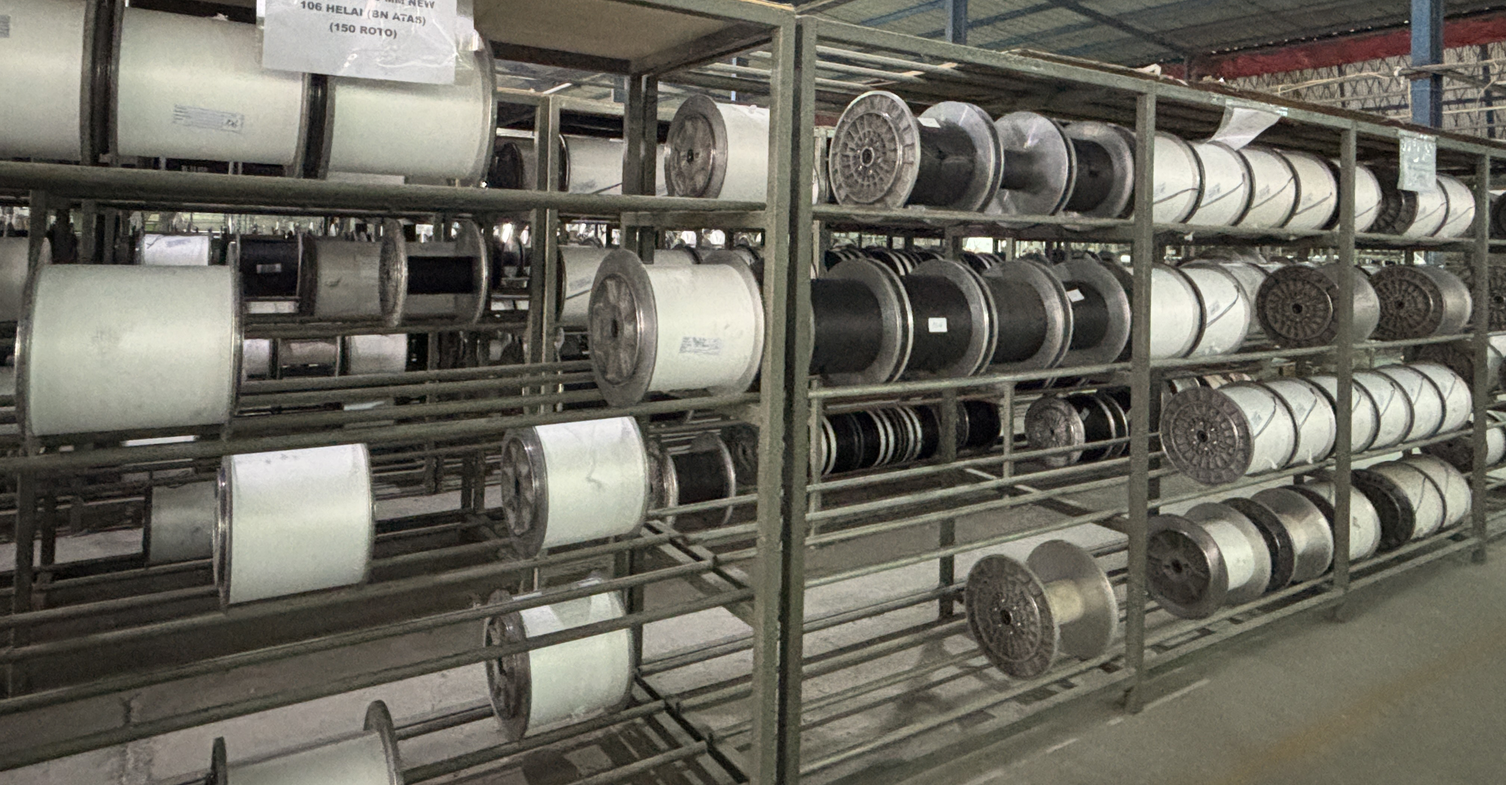
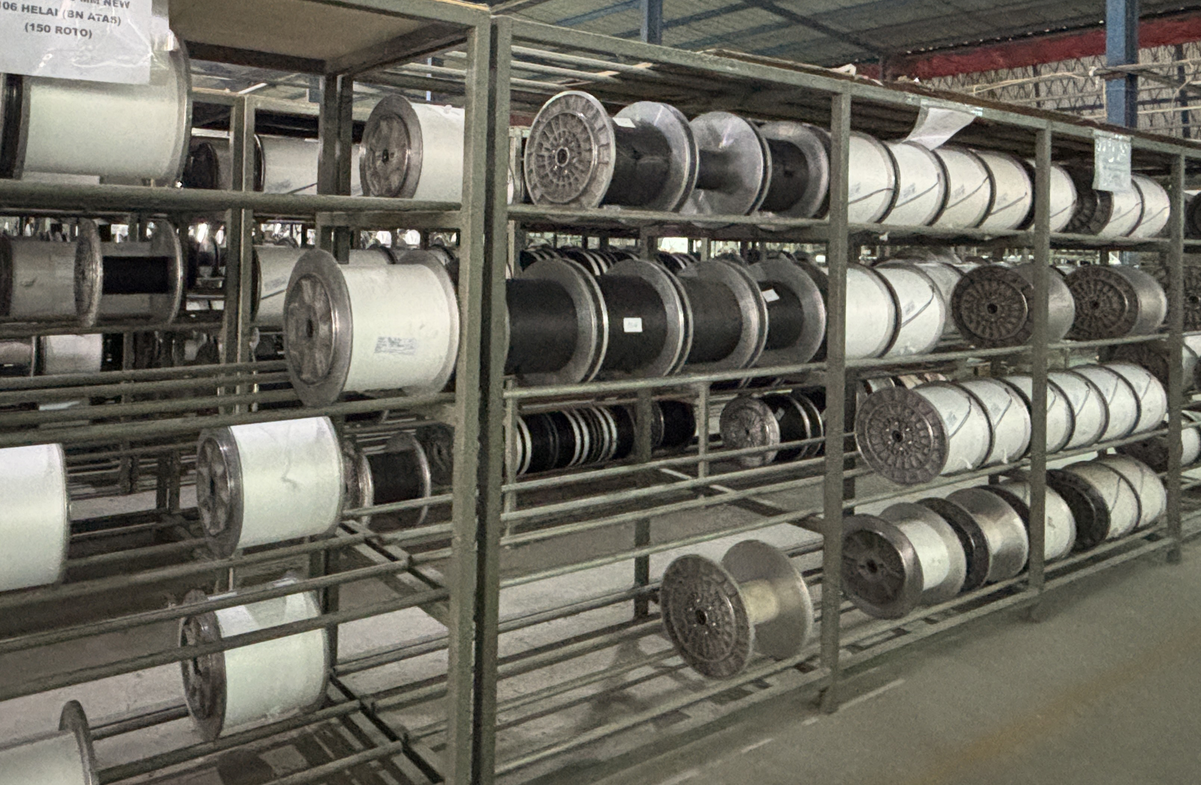
Mengganti JPG

diff --git a/src/components/layouts/Contact.js b/src/components/layouts/Contact.js
@@ -2,53 +2,49 @@ import SectionHeaders from "./SectionHeader";
 
 export default function Contact() {
   return (
-    <section className="text-center my-16  pt-24" id="contact">
-      <SectionHeaders
-        subHeader="Kontak Kami"
-        mainHeader=""
-      />
+    <section className="text-center my-16 pt-24 px-4 sm:px-6 lg:px-8" id="contact">
+      <SectionHeaders subHeader="Kontak Kami" mainHeader="" />
       <div className="mt-16 lg:mt-20">
         <div className="grid grid-cols-1 md:grid-cols-2 gap-8">
           <div className="rounded-lg overflow-hidden">
             <iframe
-              src="https://www.google.com/maps/embed?pb=!1m18!1m12!1m3!1d18870.1540435797!2d106.24859046752003!3d-6.135912600325453!2m3!1f0!2f0!3f0!3m2!1i1024!2i768!4f13.1!3m3!1m2!1s0x2e41f5155a2ee657%3A0x2862c37fbe141189!2sMutiara%20elastis%20new!5e0!3m2!1sen!2sus!4v1732334957662!5m2!1sen!2sus" 
-              width="600"
+              src="https://www.google.com/maps/embed?pb=!1m18!1m12!1m3!1d18870.1540435797!2d106.24859046752003!3d-6.135912600325453!2m3!1f0!2f0!3f0!3m2!1i1024!2i768!4f13.1!3m3!1m2!1s0x2e41f5155a2ee657%3A0x2862c37fbe141189!2sMutiara%20elastis%20new!5e0!3m2!1sen!2sus!4v1732334957662!5m2!1sen!2sus"
+              width="100%"
               height="450"
               style={{ border: 0 }}
               loading="lazy"
-              referrerPolicy="no-referrer-when-downgrade"></iframe>
+              referrerPolicy="no-referrer-when-downgrade"
+            ></iframe>
           </div>
           <div>
             <div className="max-w-full mx-auto rounded-lg overflow-hidden">
-              <div className="px-6 py-4">
-                <h3 className="text-lg font-medium text-gray-900">
-                  Detail Alamat
-                </h3>
+              <div className="px-4 sm:px-6 py-4">
+                <h3 className="text-lg font-medium text-gray-900">Detail Alamat</h3>
                 <p className="mt-1 text-gray-600">
-                Jl. Keserangan - Pengampelan No. 88, Kp. Nambo RT 06 / 03, Ds.
-                Keserangan, Kec. Ciruas - Kab. Serang, Banten, Indonesia
+                  Jl. Keserangan - Pengampelan No. 88, Kp. Nambo RT 06 / 03, Ds.
+                  Keserangan, Kec. Ciruas - Kab. Serang, Banten, Indonesia
                 </p>
               </div>
-              <div className="border-t border-gray-200 px-6 py-4">
+              <div className="border-t border-gray-200 px-4 sm:px-6 py-4">
                 <h3 className="text-lg font-medium text-gray-900">Jam Kerja</h3>
-                <p className="mt-1 text-gray-600">
-                  Senin - Jumat: 07.30 - 17.00
-                </p>
+                <p className="mt-1 text-gray-600">Senin - Jumat: 07.30 - 17.00</p>
                 <p className="mt-1 text-gray-600">Sabtu: 07.30 - 16.00</p>
                 <p className="mt-1 text-gray-600">Minggu: Tutup</p>
               </div>
-              <div className="border-t border-gray-200 px-6 py-4">
+              <div className="border-t border-gray-200 px-4 sm:px-6 py-4">
                 <h3 className="text-lg font-medium text-gray-900">Kontak</h3>
-                <p className="mt-1 text-gray-600">
-                  Email: admin@mutiara-elasticindo.co.id
-                </p>
+                <p className="mt-1 text-gray-600">Email: admin@mutiara-elasticindo.co.id</p>
                 <p className="mt-1 text-gray-600">
                   WhatsApp:{" "}
-                  <a href="https://wa.me/6281368939180" className="text-blue-500 hover:underline" target="_blank" rel="noopener noreferrer">
+                  <a
+                    href="https://wa.me/6281368939180"
+                    className="text-blue-500 hover:underline"
+                    target="_blank"
+                    rel="noopener noreferrer"
+                  >
                     +62 813-6893-9180
                   </a>
                 </p>
-
               </div>
             </div>
           </div>

diff --git a/src/components/layouts/Products.js b/src/components/layouts/Products.js
@@ -5,27 +5,27 @@ export default function Products() {
   const products = [
     {
       id: 1,
-      name: "Kami Memproduksi Karet Elastis untuk BH",
+      name: "Kami Memproduksi Karet Elastis untuk BRA",
       description:
-        "Kami memproduksi karet elastis berkualitas tinggi khusus untuk bra (BH), dirancang untuk memberikan kenyamanan, daya tahan, dan fleksibilitas maksimal. Produk kami menggunakan bahan premium dan teknologi terkini, memastikan elastisitas yang optimal serta mendukung desain bra modern yang stylish dan fungsional.",
+        "Kami memproduksi karet elastis berkualitas tinggi khusus untuk Bra (BH), dirancang untuk memberikan kenyamanan, daya tahan, dan fleksibilitas maksimal. Produk kami menggunakan bahan premium dan teknologi terkini, memastikan elastisitas yang optimal serta mendukung desain bra modern yang stylish dan fungsional.",
       media: "/img/pembuatan-karet.mp4",
       type: "video",
       link: "/products/karet",
     },
     {
       id: 2,
-      name: "Kami Memproduksi Tali untuk BH",
+      name: "Kami Memproduksi Tali untuk BRA",
       description:
-        "Kami memproduksi tali berkualitas tinggi untuk bra (BH), dirancang dengan perhatian khusus pada kenyamanan, kekuatan, dan estetika. Tali-tali kami tersedia dalam berbagai ukuran, warna, dan desain untuk mendukung kebutuhan produksi bra yang stylish dan fungsional, sekaligus memastikan daya tahan dan performa terbaik.",
+        "Kami memproduksi tali berkualitas tinggi untuk Bra (BH), dirancang dengan perhatian khusus pada kenyamanan, kekuatan, dan estetika. Tali-tali kami tersedia dalam berbagai ukuran, warna, dan desain untuk mendukung kebutuhan produksi bra yang stylish dan fungsional, sekaligus memastikan daya tahan dan performa terbaik.",
       media: "/img/pembuatan-tali.mp4",
       type: "video",
       link: "/products/tali",
     },
     {
       id: 3,
-      name: "Kami memproduksi Corong untuk BH",
+      name: "Kami memproduksi Corong untuk BRA",
       description:
-        "Kami memproduksi corong untuk bra (BH) dengan desain yang presisi dan material berkualitas tinggi. Corong kami dirancang untuk memberikan bentuk dan dukungan optimal, memastikan kenyamanan serta daya tahan yang lebih lama. Produk kami ideal untuk digunakan dalam berbagai model bra, mendukung desain yang ergonomis dan fungsional.",
+        "Kami memproduksi corong untuk Bra (BH) dengan desain yang presisi dan material berkualitas tinggi. Corong kami dirancang untuk memberikan bentuk dan dukungan optimal, memastikan kenyamanan serta daya tahan yang lebih lama. Produk kami ideal untuk digunakan dalam berbagai model bra, mendukung desain yang ergonomis dan fungsional.",
       media: "/img/produksi-corong.mp4",
       type: "video",
       link: "/products/corong",

diff --git a/src/components/layouts/About.js b/src/components/layouts/About.js
@@ -10,15 +10,15 @@ export default function About() {
   return (
     <ParallaxProvider>
       <div className="pt-20" id="about">
-        <section className="relative text-center my-10 mx-5">
+        <section className=" text-center my-5 mx-4">
           <div className="rounded-lg p-4">
             <SectionHeaders subHeader="TENTANG KAMI" mainHeader="" />
           </div>
 
-          <div className="relative flex flex-col lg:flex-row bg-white container mx-auto rounded-lg shadow-md overflow-hidden">
+          <div className="flex flex-col lg:flex-row w-full  bg-white  mx-auto rounded-lg shadow-md overflow-hidden">
             {/* Parallax Gambar di Sebelah Kiri */}
             <Parallax y={[-20, 20]} tagOuter="div" className="relative w-full lg:w-1/2">
-              <div className="h-[300px] lg:h-[500px]">
+              <div className="h-[200px] lg:h-[500px]">
                 <Image
                   src="/img/rajut3.JPG"
                   alt="Gambar"
@@ -34,14 +34,18 @@ export default function About() {
               <h2 className="text-2xl lg:text-3xl text-primary font-semibold mb-4">
                 Perusahaan Pabrik Tekstil - CV. Mutiara Elasticindo
               </h2>
-              <p className="text-gray-600 text-base lg:text-lg leading-relaxed mb-6">
+              <p className="text-gray-600 text-base text-left lg:text-lg leading-relaxed mb-6">
                 Berdiri Tahun: 2015 <br />
                 Bidang Usaha: Perusahaan yang bergerak di bidang manufaktur tekstil
                 <br />
                 CV. Mutiara Elasticindo didirikan pada tahun 2015 di kawasan industri
-                Serang, Banten. Berawal dari visi untuk menyediakan produk tekstil
+                Serang, Banten. 
+                <br />
+                <br />
+                Berawal dari visi untuk menyediakan produk tekstil
                 berkualitas tinggi bagi industri pakaian dalam, perusahaan ini terus
                 berkembang dengan mengedepankan teknologi modern dan inovasi.
+                <br />
                 <br />
                 Dengan pengalaman hampir satu dekade, kami telah menjadi mitra
                 terpercaya bagi banyak pelaku usaha di dalam negeri maupun luar negeri.

diff --git a/src/components/About.js b/src/components/About.js
@@ -10,13 +10,13 @@ export default function About() {
         </h2>
         
         {/* Gambar */}
-        <div className="flex w-full overflow-hidden h-[200px] md:h-[300px] mb-12 justify-center">
+        <div className="flex w-full overflow-hidden h-[200px] md:h-[300px]  lg:h-[400px] mb-12 justify-center">
           <Image
             src="/img/factory.JPG" // Sesuaikan path gambar
             alt="Pabrik CV. Mutiara Elasticindo"
             width={800}
             height={600}
-            className="rounded-lg shadow-lg object-cover w-full max-w-4xl h-auto"
+            className="rounded-lg shadow-lg object-cover w-full  max-w-4xl h-auto"
           />
         </div>
 
@@ -30,13 +30,13 @@ export default function About() {
           </p>
           <ul className="list-disc list-inside ml-5 text-lg">
             <li>
-              <strong>Karet BH (Bra Elastics):</strong> Menghasilkan karet elastis berkualitas tinggi untuk mendukung kenyamanan dan fleksibilitas produk BH.
+              <strong>Karet BRA (Bra Elastics):</strong> Menghasilkan karet elastis berkualitas tinggi untuk mendukung kenyamanan dan fleksibilitas produk BRA.
             </li>
             <li>
-              <strong>Tali BH (Bra Straps):</strong> Menyediakan tali BH dengan desain fungsional dan estetis untuk memenuhi kebutuhan pelanggan.
+              <strong>Tali BRA (Bra Straps):</strong> Menyediakan tali BRA dengan desain fungsional dan estetis untuk memenuhi kebutuhan pelanggan.
             </li>
             <li>
-              <strong>Corong BH (Bra Cups):</strong> Memproduksi corong BH dengan presisi dan daya tahan yang terjamin.
+              <strong>Corong BRA (Bra Cups):</strong> Memproduksi corong BRA dengan presisi dan daya tahan yang terjamin.
             </li>
             <li>
               <strong>Korset Elastis:</strong> Menghadirkan korset elastis yang mendukung kenyamanan dan fungsionalitas.

diff --git a/src/components/layouts/Header.js b/src/components/layouts/Header.js
@@ -75,32 +75,32 @@ export default function Header() {
             navbar ? "block" : "hidden"
           } fixed top-0 left-0 w-full h-full bg-white p-8 space-y-6 text-center text-gray-700 font-medium md:hidden`}>
           <li className="hover:text-blue-600 transition hover:underline">
-            <Link href="#home" onClick={() => setNavbar(false)}>
+            <Link href="/#home" onClick={() => setNavbar(false)}>
               Home
             </Link>
           </li>
           <li className="hover:text-blue-600 transition hover:underline">
-            <Link href="#about" onClick={() => setNavbar(false)}>
+            <Link href="/products" onClick={() => setNavbar(false)}>
               Produk
             </Link>
           </li>
           <li className="hover:text-blue-600 transition hover:underline">
-            <Link href="#product" onClick={() => setNavbar(false)}>
+            <Link href="/about" onClick={() => setNavbar(false)}>
               Tentang
             </Link>
           </li>
           <li className="hover:text-blue-600 transition hover:underline">
-            <Link href="#contact" onClick={() => setNavbar(false)}>
+            <Link href="/devisi" onClick={() => setNavbar(false)}>
               Devisi
             </Link>
           </li>
           <li className="hover:text-blue-600 transition hover:underline">
-            <Link href="#contact" onClick={() => setNavbar(false)}>
+            <Link href="/kontak" onClick={() => setNavbar(false)}>
               Kontak
             </Link>
           </li>
           <li className="hover:text-blue-600 transition hover:underline">
-            <Link href="#contact" onClick={() => setNavbar(false)}>
+            <Link href="/galeri" onClick={() => setNavbar(false)}>
               Galeri
             </Link>
           </li>

diff --git a/src/components/layouts/HomeMenu.js b/src/components/layouts/HomeMenu.js
@@ -23,7 +23,7 @@ export default function HomeMenu() {
     {
       title: "Rajut Benang",
       description:
-        "Rajut Benang adalah proses pengolahan benang menjadi material elastis seperti karet BH, tali BH, atau komponen lain untuk bra. Proses ini memastikan hasil rajutan yang kuat, fleksibel, dan sesuai dengan standar kualitas tinggi untuk mendukung kenyamanan serta fungsi produk.",
+        "Rajut Benang adalah proses pengolahan benang menjadi material elastis seperti Karet Bra, Tali Bra, atau komponen lain untuk Bra. Proses ini memastikan hasil rajutan yang kuat, fleksibel, dan sesuai dengan standar kualitas tinggi untuk mendukung kenyamanan serta fungsi produk.",
       image: "/img/rajut-depan2.mp4", // Ganti dengan path video
       link: "https://wa.link/h7ywr2",
       type: "video", // Set tipe sebagai video
@@ -31,7 +31,7 @@ export default function HomeMenu() {
     {
       title: "Pewarnaan dan Penyelesaian",
       description:
-        "Pewarnaan dan Penyelesaian adalah proses memberikan warna pada material, seperti karet atau tali BH, serta tahap akhir untuk meningkatkan kualitas produk. Proses ini memastikan warna yang tahan lama, merata, dan sesuai standar, sekaligus menyempurnakan hasil akhir agar produk siap digunakan atau dipasarkan.",
+        "Pewarnaan dan Penyelesaian adalah proses memberikan warna pada material, seperti karet atau tali Bra, serta tahap akhir untuk meningkatkan kualitas produk. Proses ini memastikan warna yang tahan lama, merata, dan sesuai standar, sekaligus menyempurnakan hasil akhir agar produk siap digunakan atau dipasarkan.",
       image: "/img/pewarnaan.mp4",
       link: "https://wa.link/h7ywr2",
       type: "video",

diff --git a/src/components/WhyChooseUs.js b/src/components/WhyChooseUs.js
@@ -11,7 +11,7 @@ export default function WhyChooseUs() {
     },
     {
       title: "PRODUK BERKUALITAS",
-      description: "Kami memprioritaskan kualitas dalam pembuatan Tali BH, Karet BH, dan Corong BH, dengan menggunakan material terbaik untuk memastikan kenyamanan dan ketahanan produk.",
+      description: "Kami memprioritaskan kualitas dalam pembuatan Tali Bra, Karet Bra, dan Corong Bra, dengan menggunakan material terbaik untuk memastikan kenyamanan dan ketahanan produk.",
       icon: <FaTags className="text-4xl text-green-500" />,
     },
     {
@@ -21,7 +21,7 @@ export default function WhyChooseUs() {
     },
     {
       title: "FOKUS PASAR GLOBAL",
-      description: "Kami dapat memenuhi permintaan Tali BH, Karet BH, dan Corong BH untuk pasar lokal maupun internasional, dengan kemampuan untuk mendukung merek-merek lokal seperti Winalin dan Pokabee.",
+      description: "Kami dapat memenuhi permintaan Tali Bra, Karet Bra, dan Corong BH untuk pasar lokal maupun internasional, dengan kemampuan untuk mendukung merek-merek lokal seperti Winalin dan Pokabee.",
       icon: <FaGlobe className="text-4xl text-red-500" />,
     },
     {

diff --git a/src/components/layouts/Perbaikan.js b/src/components/layouts/Perbaikan.js
@@ -1,0 +1,31 @@
+"use client";
+
+import Image from "next/image";
+import SectionHeaders from "./SectionHeader";
+import Link from "next/link";
+import { Parallax } from "react-scroll-parallax";
+import { ParallaxProvider } from "react-scroll-parallax";
+
+export default function Perbaikan() {
+  return (
+    <ParallaxProvider>
+      <div className="pt-20" id="about">
+        <section className="relative text-center my-10 mx-5">
+          <div className="rounded-lg p-4">
+            <SectionHeaders subHeader="PERBAIKAN" mainHeader="" />
+          </div>
+
+          <div className="flex flex-col lg:flex-row">
+            {/* Teks di Sebelah Kanan */}
+            <div className="w-full lg:w-1/2 p-6 flex flex-col justify-center">
+              <h2 className="text-2xl lg:text-3xl text-primary font-semibold mb-4">
+                Perusahaan Pabrik Tekstil - CV. Mutiara Elasticindo
+              </h2>           
+             
+            </div>
+          </div>
+        </section>
+      </div>
+    </ParallaxProvider>
+  );
+}

diff --git a/src/app/page.js b/src/app/page.js
@@ -3,6 +3,7 @@ import Contact from '@/components/layouts/Contact'
 import Hero from '@/components/layouts/Hero'
 import HomeMenu from '@/components/layouts/HomeMenu'
 import WhyChooseUs from '@/components/WhyChooseUs'
+import Perbaikan from '@/components/layouts/Perbaikan'
 
 export default function Home() {
   return (
@@ -13,6 +14,7 @@ export default function Home() {
       <HomeMenu />
       <WhyChooseUs />
       <Contact />
+      {/* <Perbaikan /> */}
       
     </div>
   )

diff --git a/src/components/Kontak.js b/src/components/Kontak.js
@@ -17,7 +17,7 @@ export default function Kontak() {
           Hubungi Kami
         </h2>
         <p className="text-center text-lg text-gray-600 max-w-3xl mx-auto mb-12">
-          CV. Mutiara Elasticindo adalah Produsen Karet BH, Tali BH, Corong BH,
+          CV. Mutiara Elasticindo adalah Produsen Karet BRA, Tali BRA, Corong BRA,
           dan Korset. Untuk pertanyaan atau konsultasi bisnis, silakan hubungi
           kami melalui informasi kontak di bawah ini.
         </p>

diff --git a/src/app/galeri/page.js b/src/app/galeri/page.js
@@ -4,7 +4,7 @@ export default function Galeri() {
   const fotoProduk = [
     { src: "/img/corong/corong1.jpeg", alt: "Produk 1" },
     { src: "/img/karet/karet2.jpeg", alt: "Produk 2" },
-    { src: "/img/tali/tali6.jpeg", alt: "Produk 3" },
+    { src: "/img/tali/tali7.jpeg", alt: "Produk 3" },
     { src: "/img/corong/corong4.jpeg", alt: "Produk 4" },
   ];
 
